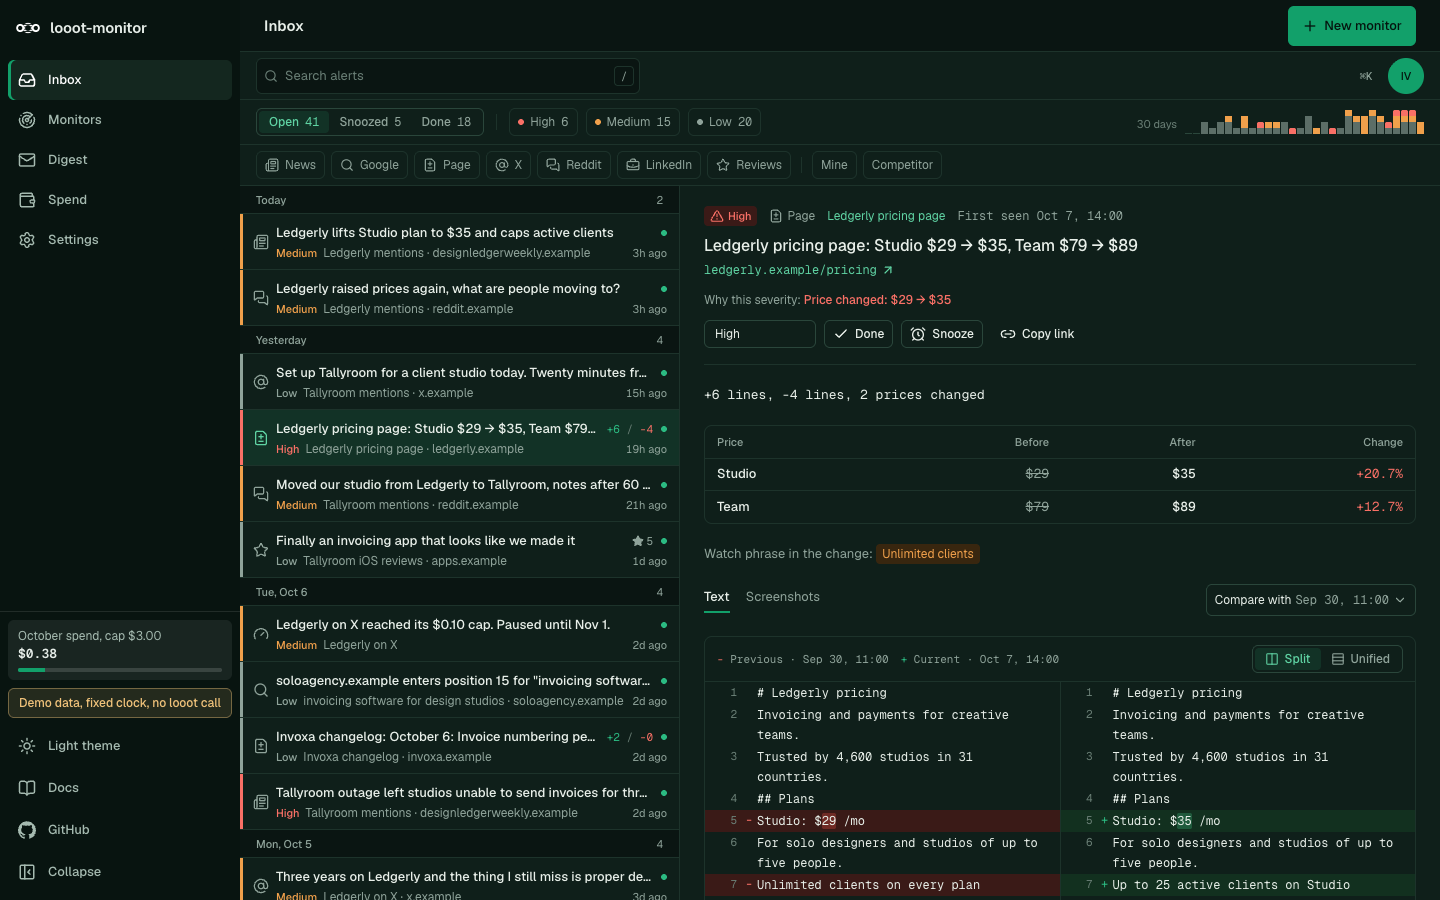
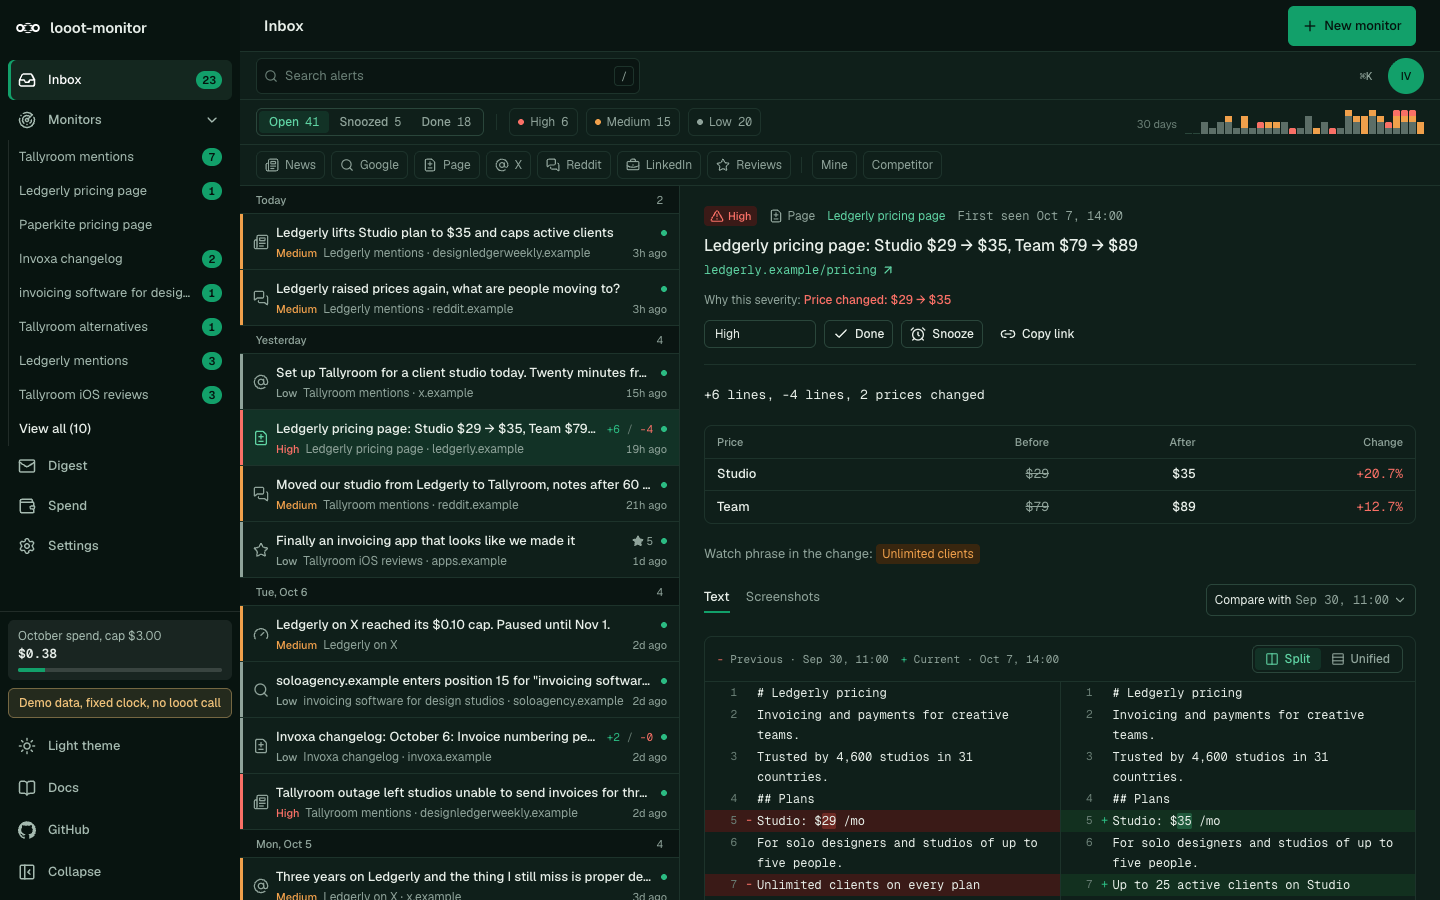
Sidebar: nested Monitors list with unread badges, flyout in the rail
The shared AppShell gains optional nested items and badges. On a monitor page only the monitor link is aria-current and the Monitors item is aria-expanded. Retakes the README screenshots.

diff --git a/src/components/AppShell.tsx b/src/components/AppShell.tsx
@@ -9,6 +9,7 @@ import "./app-shell.css";
    Icons are Lucide (ISC licence) inlined as path data, so the shell needs no icon package. */
 
 const ICONS = {
+  chevron: '<path d="m6 9 6 6 6-6"/>',
   menu: '<path d="M4 5h16"/><path d="M4 12h16"/><path d="M4 19h16"/>',
   close: '<path d="M18 6 6 18"/><path d="m6 6 12 12"/>',
   collapse: '<rect width="18" height="18" x="3" y="3" rx="2"/><path d="M9 3v18"/><path d="m16 15-3-3 3-3"/>',
@@ -48,7 +49,18 @@ const ICONS = {
 } as const;
 
 export type ShellIcon = keyof typeof ICONS;
-export type ShellNavItem = { href: string; label: string; icon: ShellIcon; /** Extra path prefixes that count as this item (detail pages). */ also?: string[] };
+export type ShellSubItem = { href: string; label: string; /** Count shown as a small pill, left out when 0. */ badge?: number };
+export type ShellNavItem = {
+  href: string;
+  label: string;
+  icon: ShellIcon;
+  /** Extra path prefixes that count as this item (detail pages). */
+  also?: string[];
+  /** Count shown as a small pill, left out when 0. */
+  badge?: number;
+  /** Nested list under the item. Collapsible, capped at `max` rows (default 8) with a "View all" link, and a flyout in the 64px rail. */
+  sub?: { items: ShellSubItem[]; max?: number };
+};
 export type ShellNavSection = { heading?: string; items: ShellNavItem[] };
 export type ShellSpend = { label: string; spent: string; cap?: string; /** 0 to 1, drawn as a bar. */ ratio?: number };
 export type AppShellProps = {
@@ -120,7 +132,17 @@ function flipTheme() {
   } catch {}
 }
 
-const isActive = (path: string, item: ShellNavItem) => {
+function Badge({ n }: { n?: number }) {
+  if (!n || n <= 0) return null;
+  return (
+    <span className="ls-badge">
+      <span aria-hidden="true">{n > 99 ? "99+" : n}</span>
+      <span className="ls-sr"> unread</span>
+    </span>
+  );
+}
+
+const isActive = (path: string, item: { href: string; also?: string[] }) => {
   const hit = (h: string) => (h === "/" ? path === "/" : path === h || path.startsWith(`${h}/`));
   return hit(item.href) || (item.also ?? []).some(hit);
 };
@@ -135,8 +157,9 @@ export function AppShell({ appName, nav, githubHref, docsHref = "https://docs.lo
   const menuRef = useRef<HTMLButtonElement>(null);
   const wasOpen = useRef(false);
 
-  const items = nav.flatMap((s) => s.items);
+  const items = nav.flatMap((s) => s.items.flatMap((i) => [i, ...(i.sub?.items ?? [])]));
   const current = items.filter((i) => isActive(path, i)).sort((a, b) => b.href.length - a.href.length)[0];
+  const [shut, setShut] = useState<Record<string, boolean>>({});
   const title = current?.label ?? appName;
   const showAction = primaryAction && !(current && current.href === primaryAction.href);
 
@@ -212,13 +235,57 @@ export function AppShell({ appName, nav, githubHref, docsHref = "https://docs.lo
               {section.heading && <p className="ls-group ls-label">{section.heading}</p>}
               <ul>
                 {section.items.map((item) => {
-                  const active = isActive(path, item);
+                  const kids = item.sub?.items;
+                  const kidOn = kids?.find((k) => isActive(path, k));
+                  const active = isActive(path, item) && !kidOn;
+                  if (!kids) {
+                    return (
+                      <li key={item.href}>
+                        <Link href={item.href} className="ls-item" aria-current={active ? "page" : undefined} title={item.label} onClick={close}>
+                          <Icon name={item.icon} />
+                          <span className="ls-label">{item.label}</span>
+                          <Badge n={item.badge} />
+                        </Link>
+                      </li>
+                    );
+                  }
+                  const max = item.sub?.max ?? 8;
+                  const shown = kids.slice(0, max);
+                  if (kidOn && !shown.includes(kidOn)) shown[shown.length - 1] = kidOn;
+                  const isOpen = !shut[item.href];
+                  const listId = `ls-sub-${item.href.replace(/\W+/g, "-")}`;
                   return (
-                    <li key={item.href}>
-                      <Link href={item.href} className="ls-item" aria-current={active ? "page" : undefined} title={item.label} onClick={close}>
-                        <Icon name={item.icon} />
-                        <span className="ls-label">{item.label}</span>
-                      </Link>
+                    <li key={item.href} className="ls-has-sub" data-open={isOpen ? "true" : "false"}>
+                      <div className="ls-row">
+                        <Link href={item.href} className="ls-item" aria-current={active ? "page" : undefined} aria-expanded={isOpen} aria-controls={listId} data-section={kidOn ? "true" : undefined} title={item.label} onClick={close}>
+                          <Icon name={item.icon} />
+                          <span className="ls-label">{item.label}</span>
+                          <Badge n={item.badge} />
+                        </Link>
+                        <button type="button" className="ls-toggle" onClick={() => setShut((c) => ({ ...c, [item.href]: isOpen }))} aria-expanded={isOpen} aria-controls={listId} aria-label={`${isOpen ? "Collapse" : "Expand"} ${item.label} list`}>
+                          <Icon name="chevron" />
+                        </button>
+                      </div>
+                      <ul id={listId} className="ls-sub" aria-label={`${item.label} list`}>
+                        <li className="ls-fly-title" aria-hidden="true">
+                          {item.label}
+                        </li>
+                        {shown.map((k) => (
+                          <li key={k.href}>
+                            <Link href={k.href} className="ls-subitem" aria-current={k === kidOn ? "page" : undefined} title={k.label} onClick={close}>
+                              <span className="ls-sublabel">{k.label}</span>
+                              <Badge n={k.badge} />
+                            </Link>
+                          </li>
+                        ))}
+                        {kids.length > max && (
+                          <li>
+                            <Link href={item.href} className="ls-subitem ls-viewall" onClick={close}>
+                              View all ({kids.length})
+                            </Link>
+                          </li>
+                        )}
+                      </ul>
                     </li>
                   );
                 })}

diff --git a/src/components/app-shell.css b/src/components/app-shell.css
@@ -435,3 +435,165 @@
     transition: none !important;
   }
 }
+
+/* Nested list, badges */
+.ls-sr {
+  position: absolute;
+  width: 1px;
+  height: 1px;
+  overflow: hidden;
+  clip-path: inset(50%);
+  white-space: nowrap;
+}
+.ls-badge {
+  margin-left: auto;
+  min-width: 20px;
+  padding: 0 6px;
+  border-radius: 10px;
+  background: var(--ls-accent);
+  color: #04140e;
+  font-size: 11px;
+  font-weight: 600;
+  line-height: 18px;
+  text-align: center;
+  font-variant-numeric: tabular-nums;
+}
+.ls-has-sub {
+  position: relative;
+}
+.ls-row {
+  display: flex;
+  align-items: center;
+}
+.ls-row .ls-item {
+  flex: 1;
+  min-width: 0;
+  width: auto;
+}
+.ls-item[data-section="true"] {
+  background: var(--ls-side-hover);
+  color: #ffffff;
+}
+.ls-toggle {
+  display: grid;
+  place-items: center;
+  width: 40px;
+  height: 40px;
+  flex-shrink: 0;
+  border: 0;
+  border-radius: 6px;
+  background: transparent;
+  color: var(--ls-side-mute);
+  cursor: pointer;
+}
+.ls-toggle:hover {
+  background: var(--ls-side-hover);
+  color: var(--ls-side-fg);
+}
+.ls-toggle:focus-visible {
+  outline: 2px solid var(--ls-focus);
+  outline-offset: -2px;
+}
+.ls-toggle .ls-icon {
+  width: 16px;
+  height: 16px;
+  transition: transform 120ms;
+}
+.ls-has-sub[data-open="false"] .ls-toggle .ls-icon {
+  transform: rotate(-90deg);
+}
+.ls-sub {
+  margin: 0 0 4px 18px;
+  padding: 0 0 0 8px;
+  border-left: 1px solid var(--ls-side-line);
+}
+.ls-has-sub[data-open="false"] .ls-sub {
+  display: none;
+}
+.ls-fly-title {
+  display: none;
+}
+.ls-subitem {
+  display: flex;
+  align-items: center;
+  gap: 8px;
+  min-height: 40px;
+  padding: 0 10px;
+  border-radius: 6px;
+  color: var(--ls-side-mute);
+  font-size: 13px;
+  line-height: 18px;
+  text-decoration: none;
+}
+.ls-subitem:hover {
+  background: var(--ls-side-hover);
+  color: var(--ls-side-fg);
+}
+.ls-subitem[aria-current="page"] {
+  background: var(--ls-side-active);
+  color: #ffffff;
+  box-shadow: inset 3px 0 0 var(--ls-accent);
+}
+.ls-subitem:focus-visible {
+  outline: 2px solid var(--ls-focus);
+  outline-offset: -2px;
+}
+.ls-sublabel {
+  min-width: 0;
+  overflow: hidden;
+  text-overflow: ellipsis;
+  white-space: nowrap;
+}
+.ls-viewall {
+  color: var(--ls-side-fg);
+  font-weight: 500;
+}
+@media (min-width: 1024px) {
+  .ls-subitem {
+    min-height: 34px;
+  }
+  .ls-root[data-collapsed="true"] .ls-side,
+  .ls-root[data-collapsed="true"] .ls-nav {
+    overflow: visible;
+  }
+  .ls-root[data-collapsed="true"] .ls-toggle,
+  .ls-root[data-collapsed="true"] .ls-item .ls-badge {
+    display: none;
+  }
+  .ls-root[data-collapsed="true"] .ls-sub,
+  .ls-root[data-collapsed="true"] .ls-has-sub[data-open="false"] .ls-sub {
+    display: none;
+    position: absolute;
+    left: 100%;
+    top: 0;
+    z-index: 70;
+    width: 260px;
+    margin: 0;
+    padding: 6px;
+    border: 1px solid var(--ls-side-line);
+    border-radius: 8px;
+    background: var(--ls-side);
+    box-shadow: 0 12px 32px rgb(0 0 0 / 0.4);
+  }
+  .ls-root[data-collapsed="true"] .ls-sub::before {
+    content: "";
+    position: absolute;
+    left: -10px;
+    top: 0;
+    bottom: 0;
+    width: 10px;
+  }
+  .ls-root[data-collapsed="true"] .ls-has-sub:hover > .ls-sub,
+  .ls-root[data-collapsed="true"] .ls-has-sub:focus-within > .ls-sub {
+    display: block;
+  }
+  .ls-root[data-collapsed="true"] .ls-fly-title {
+    display: block;
+    padding: 6px 10px 4px;
+    font-size: 11px;
+    font-weight: 600;
+    letter-spacing: 0.06em;
+    text-transform: uppercase;
+    color: var(--ls-side-mute);
+  }
+}

diff --git a/src/components/shell/Shell.tsx b/src/components/shell/Shell.tsx
@@ -23,17 +23,20 @@ export interface ShellData {
   monthLabel: string;
 }
 
-const NAV: ShellNavSection[] = [
-  {
-    items: [
-      { href: "/", label: "Inbox", icon: "inbox", also: ["/alerts"] },
-      { href: "/monitors", label: "Monitors", icon: "radar" },
-      { href: "/digest", label: "Digest", icon: "mail" },
-      { href: "/spend", label: "Spend", icon: "wallet" },
-      { href: "/settings", label: "Settings", icon: "settings" },
-    ],
-  },
-];
+/** Sidebar nav. The Monitors item carries the monitor list with unread counts. */
+function navFor(data: ShellData): ShellNavSection[] {
+  return [
+    {
+      items: [
+        { href: "/", label: "Inbox", icon: "inbox", also: ["/alerts"], badge: data.unreadCount },
+        { href: "/monitors", label: "Monitors", icon: "radar", sub: { items: data.monitors.map((m) => ({ href: `/monitors/${m.id}`, label: m.name, badge: m.unread })), max: 8 } },
+        { href: "/digest", label: "Digest", icon: "mail" },
+        { href: "/spend", label: "Spend", icon: "wallet" },
+        { href: "/settings", label: "Settings", icon: "settings" },
+      ],
+    },
+  ];
+}
 
 /** Go-to shortcuts and the palette entries share these. */
 const GO: { href: string; label: string; keys: string }[] = [
@@ -138,7 +141,7 @@ export function Shell({ data, children }: { data: ShellData; children: React.Rea
         <AppShell
           appName="looot-monitor"
           githubHref="https://github.com/loootai/looot-monitor"
-          nav={NAV}
+          nav={navFor(data)}
           demoLabel={data.demo ? "Demo data, fixed clock, no looot call" : undefined}
           spend={{ label: `${data.monthLabel} spend, cap ${usd(data.capMicros)}`, spent: usd(data.monthMicros), ratio: data.capMicros > 0 ? data.monthMicros / data.capMicros : 0 }}
           primaryAction={{ href: "/monitors/new", label: "New monitor" }}
